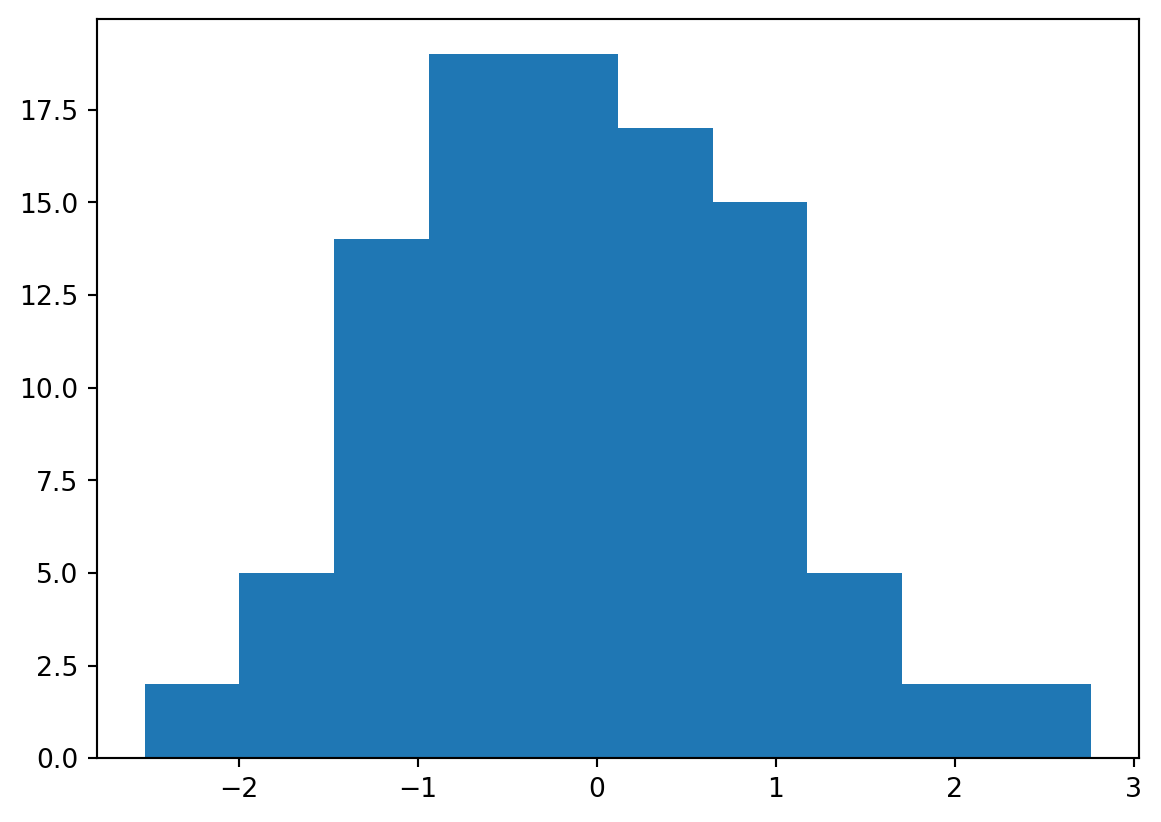
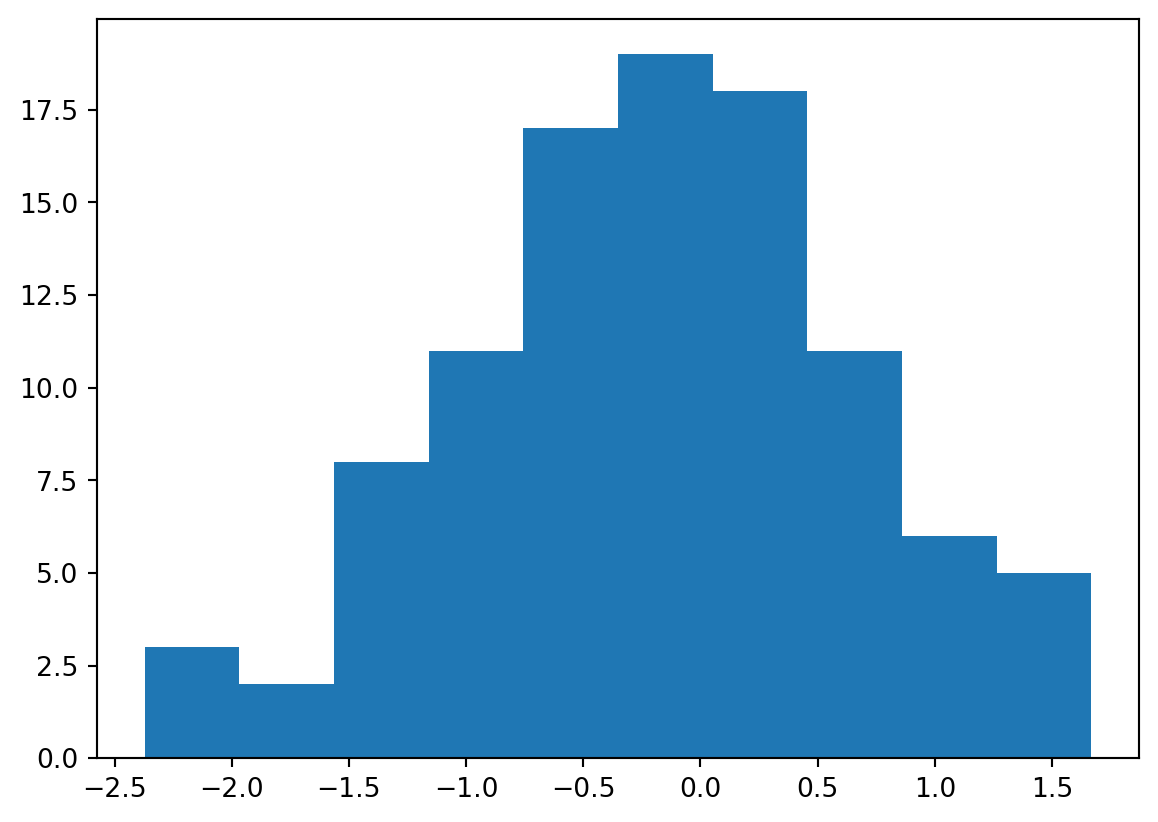
Built site for gh-pages

diff --git a/units/unit1.html b/units/unit1.html
@@ -189,7 +189,7 @@ window.Quarto = {
 <p>This is an example of using qmd as the source document.</p>
 <section id="evaluated-python-code-chunk-with-a-plot" class="level2">
 <h2 class="anchored" data-anchor-id="evaluated-python-code-chunk-with-a-plot">Evaluated Python code chunk, with a plot</h2>
-<div id="ec6a6e5c" class="cell" data-execution_count="1">
+<div id="8f2fe881" class="cell" data-execution_count="1">
 <details open="" class="code-fold">
 <summary>Code</summary>
 <div class="sourceCode cell-code" id="cb1"><pre class="sourceCode python code-with-copy"><code class="sourceCode python"><span id="cb1-1"><a href="#cb1-1" aria-hidden="true" tabindex="-1"></a><span class="im">import</span> numpy <span class="im">as</span> np</span>
@@ -202,12 +202,12 @@ window.Quarto = {
 <div class="cell-output cell-output-display">
 <div>
 <figure class="figure">
-<p><img src="unit1_files/figure-html/cell-2-output-1.png" width="581" height="411" class="figure-img"></p>
+<p><img src="unit1_files/figure-html/cell-2-output-1.png" width="579" height="411" class="figure-img"></p>
 </figure>
 </div>
 </div>
 <div class="cell-output cell-output-display" data-execution_count="1">
-<pre><code>-0.0755758869499577</code></pre>
+<pre><code>-0.17473441007484056</code></pre>
 </div>
 </div>
 </section>
@@ -260,7 +260,7 @@ Tip with Title
 </div>
 <div id="tabset-1-2" class="tab-pane" role="tabpanel" aria-labelledby="tabset-1-2-tab">
 <p>This code is executed.</p>
-<div id="9172a1e2" class="cell" data-execution_count="2">
+<div id="e2e209bc" class="cell" data-execution_count="2">
 <details open="" class="code-fold">
 <summary>Code</summary>
 <div class="sourceCode cell-code" id="cb4"><pre class="sourceCode python code-with-copy"><code class="sourceCode python"><span id="cb4-1"><a href="#cb4-1" aria-hidden="true" tabindex="-1"></a><span class="kw">def</span> fizz_buzz(num):</span>

diff --git a/units/unit3.html b/units/unit3.html
@@ -191,7 +191,7 @@ $$
 <p>This is an example of using qmd as the source document with pdf as one target. I’ve taken out the qmd stuff that doesn’t seem to render to pdf.</p>
 <section id="evaluated-python-code-chunk-with-a-plot" class="level2">
 <h2 class="anchored" data-anchor-id="evaluated-python-code-chunk-with-a-plot">Evaluated Python code chunk, with a plot</h2>
-<div id="069063a3" class="cell" data-execution_count="1">
+<div id="480cdd98" class="cell" data-execution_count="1">
 <details open="" class="code-fold">
 <summary>Code</summary>
 <div class="sourceCode cell-code" id="cb1"><pre class="sourceCode python code-with-copy"><code class="sourceCode python"><span id="cb1-1"><a href="#cb1-1" aria-hidden="true" tabindex="-1"></a><span class="im">import</span> numpy <span class="im">as</span> np</span>
@@ -204,12 +204,12 @@ $$
 <div class="cell-output cell-output-display">
 <div>
 <figure class="figure">
-<p><img src="unit3_files/figure-html/cell-2-output-1.png" width="566" height="411" class="figure-img"></p>
+<p><img src="unit3_files/figure-html/cell-2-output-1.png" width="566" height="413" class="figure-img"></p>
 </figure>
 </div>
 </div>
 <div class="cell-output cell-output-display" data-execution_count="1">
-<pre><code>-0.08039979060821434</code></pre>
+<pre><code>0.09070565949077254</code></pre>
 </div>
 </div>
 </section>
